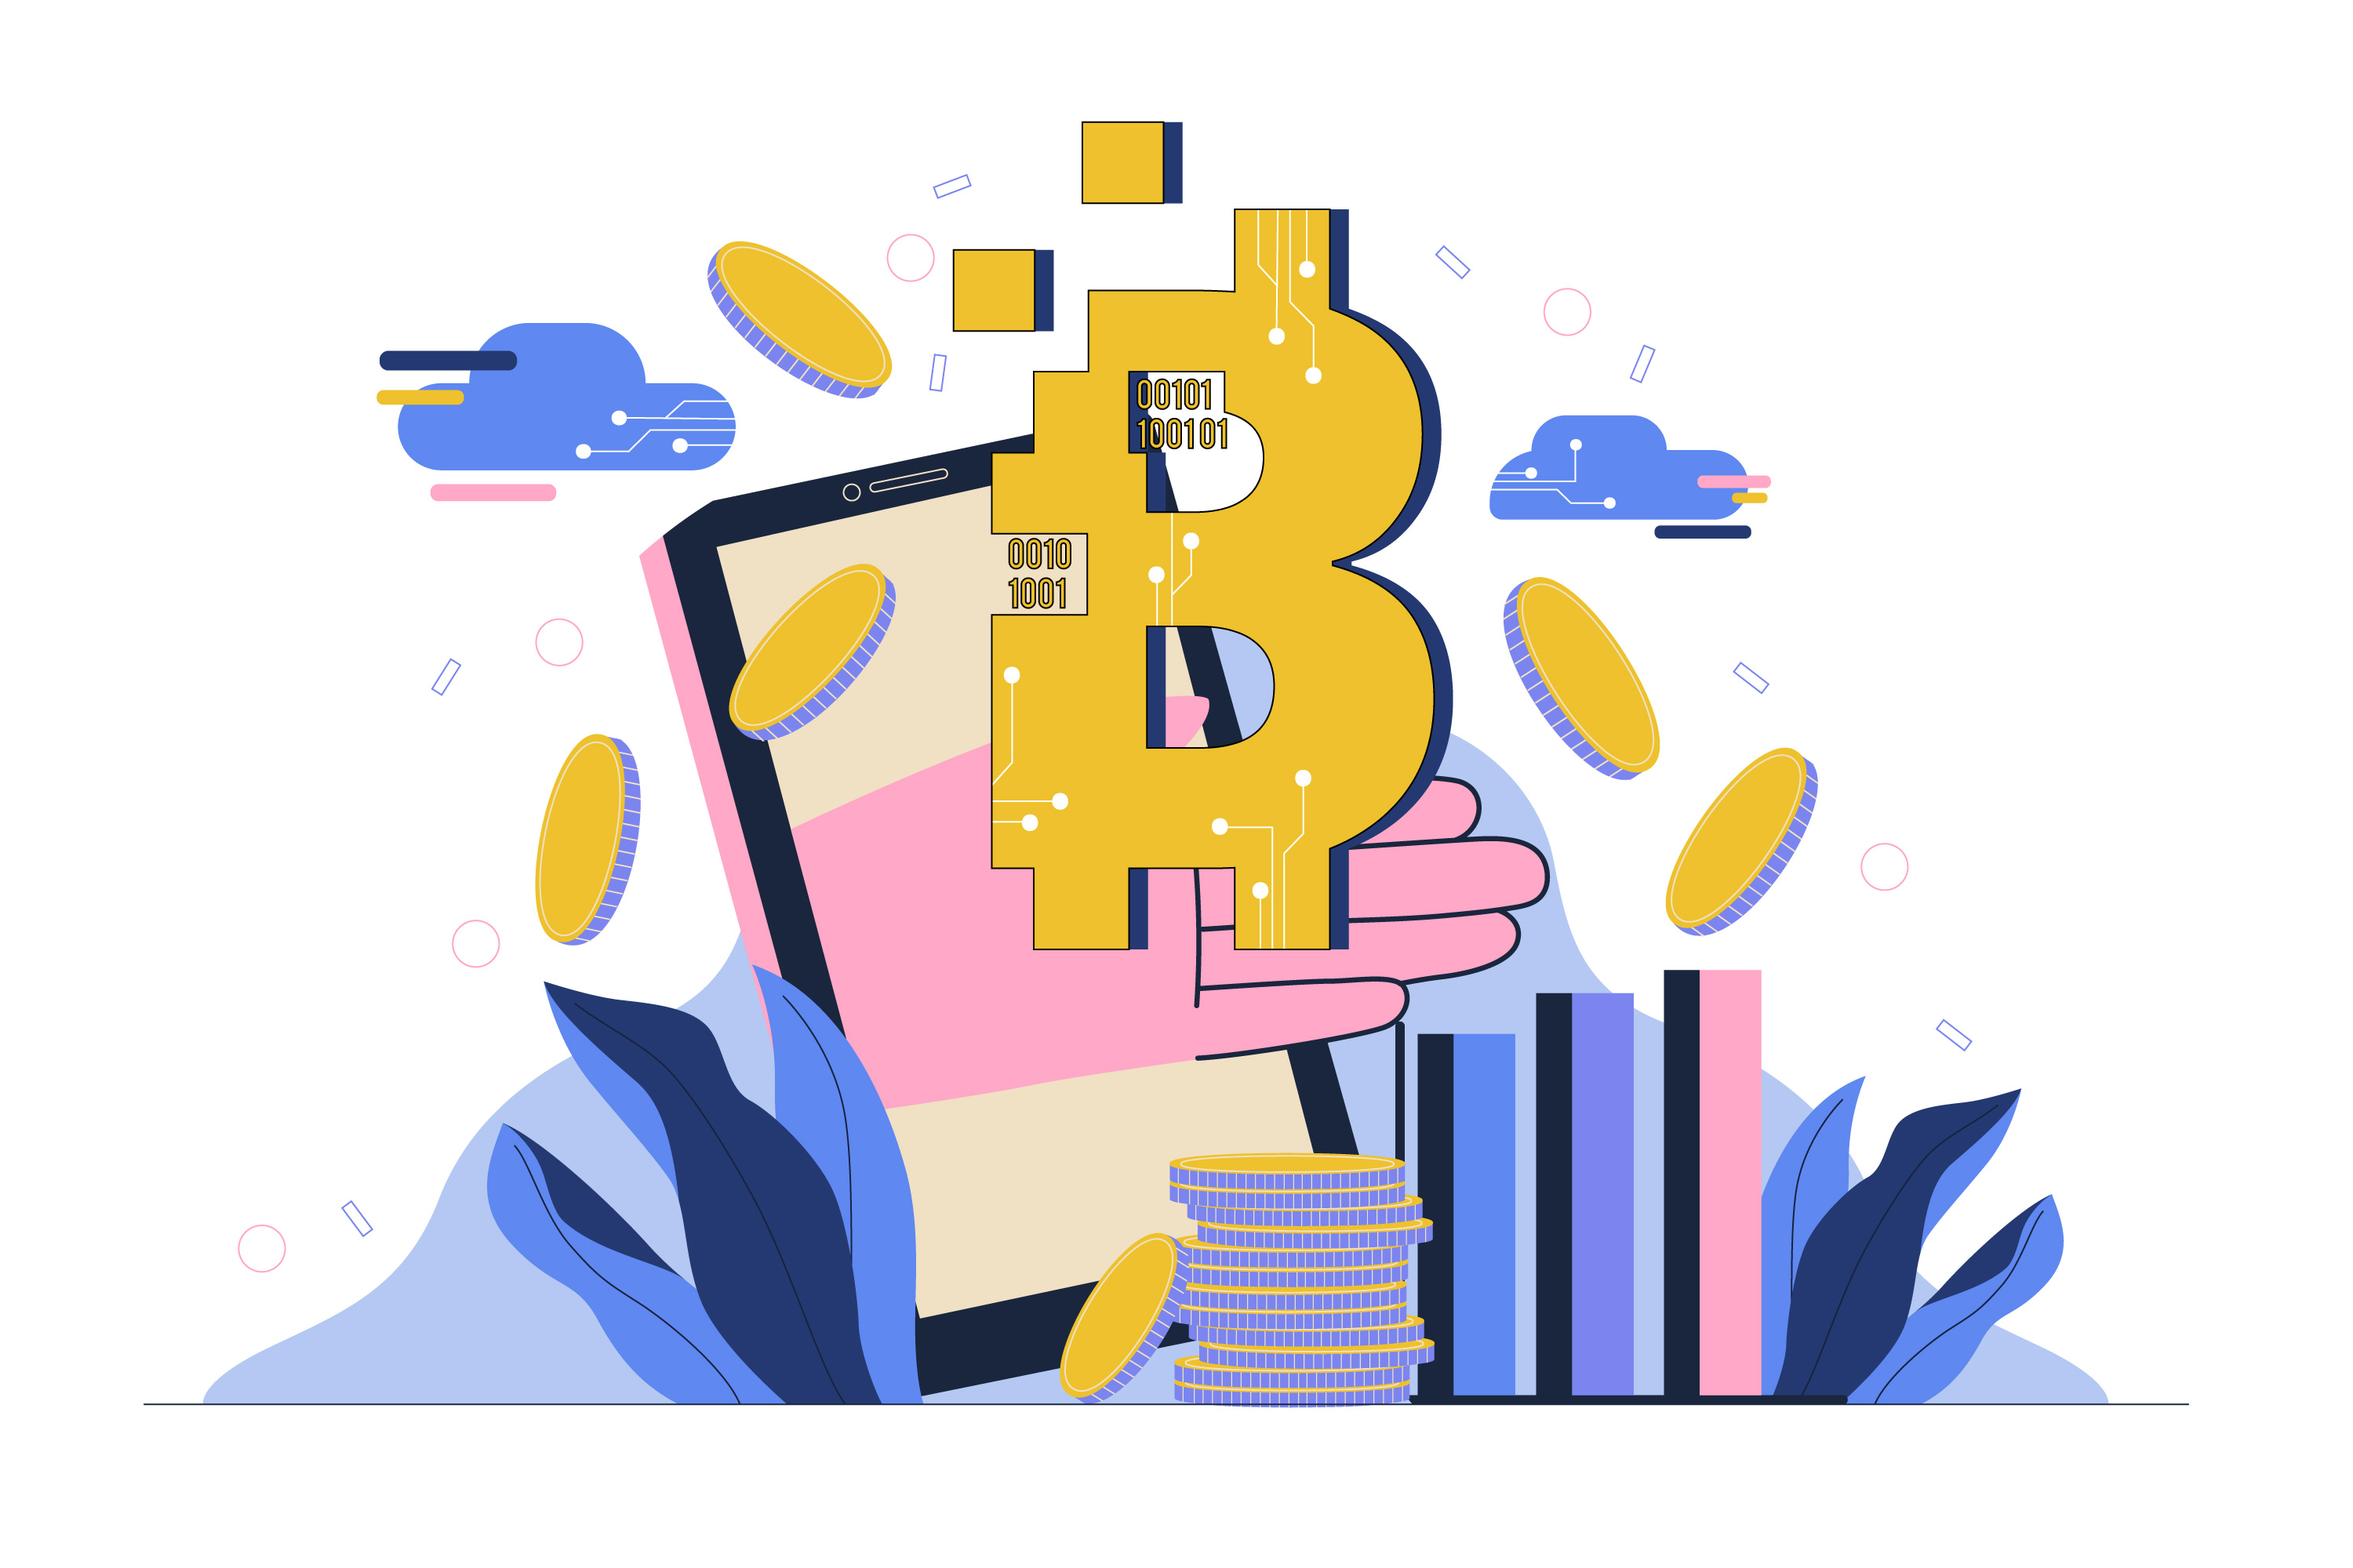
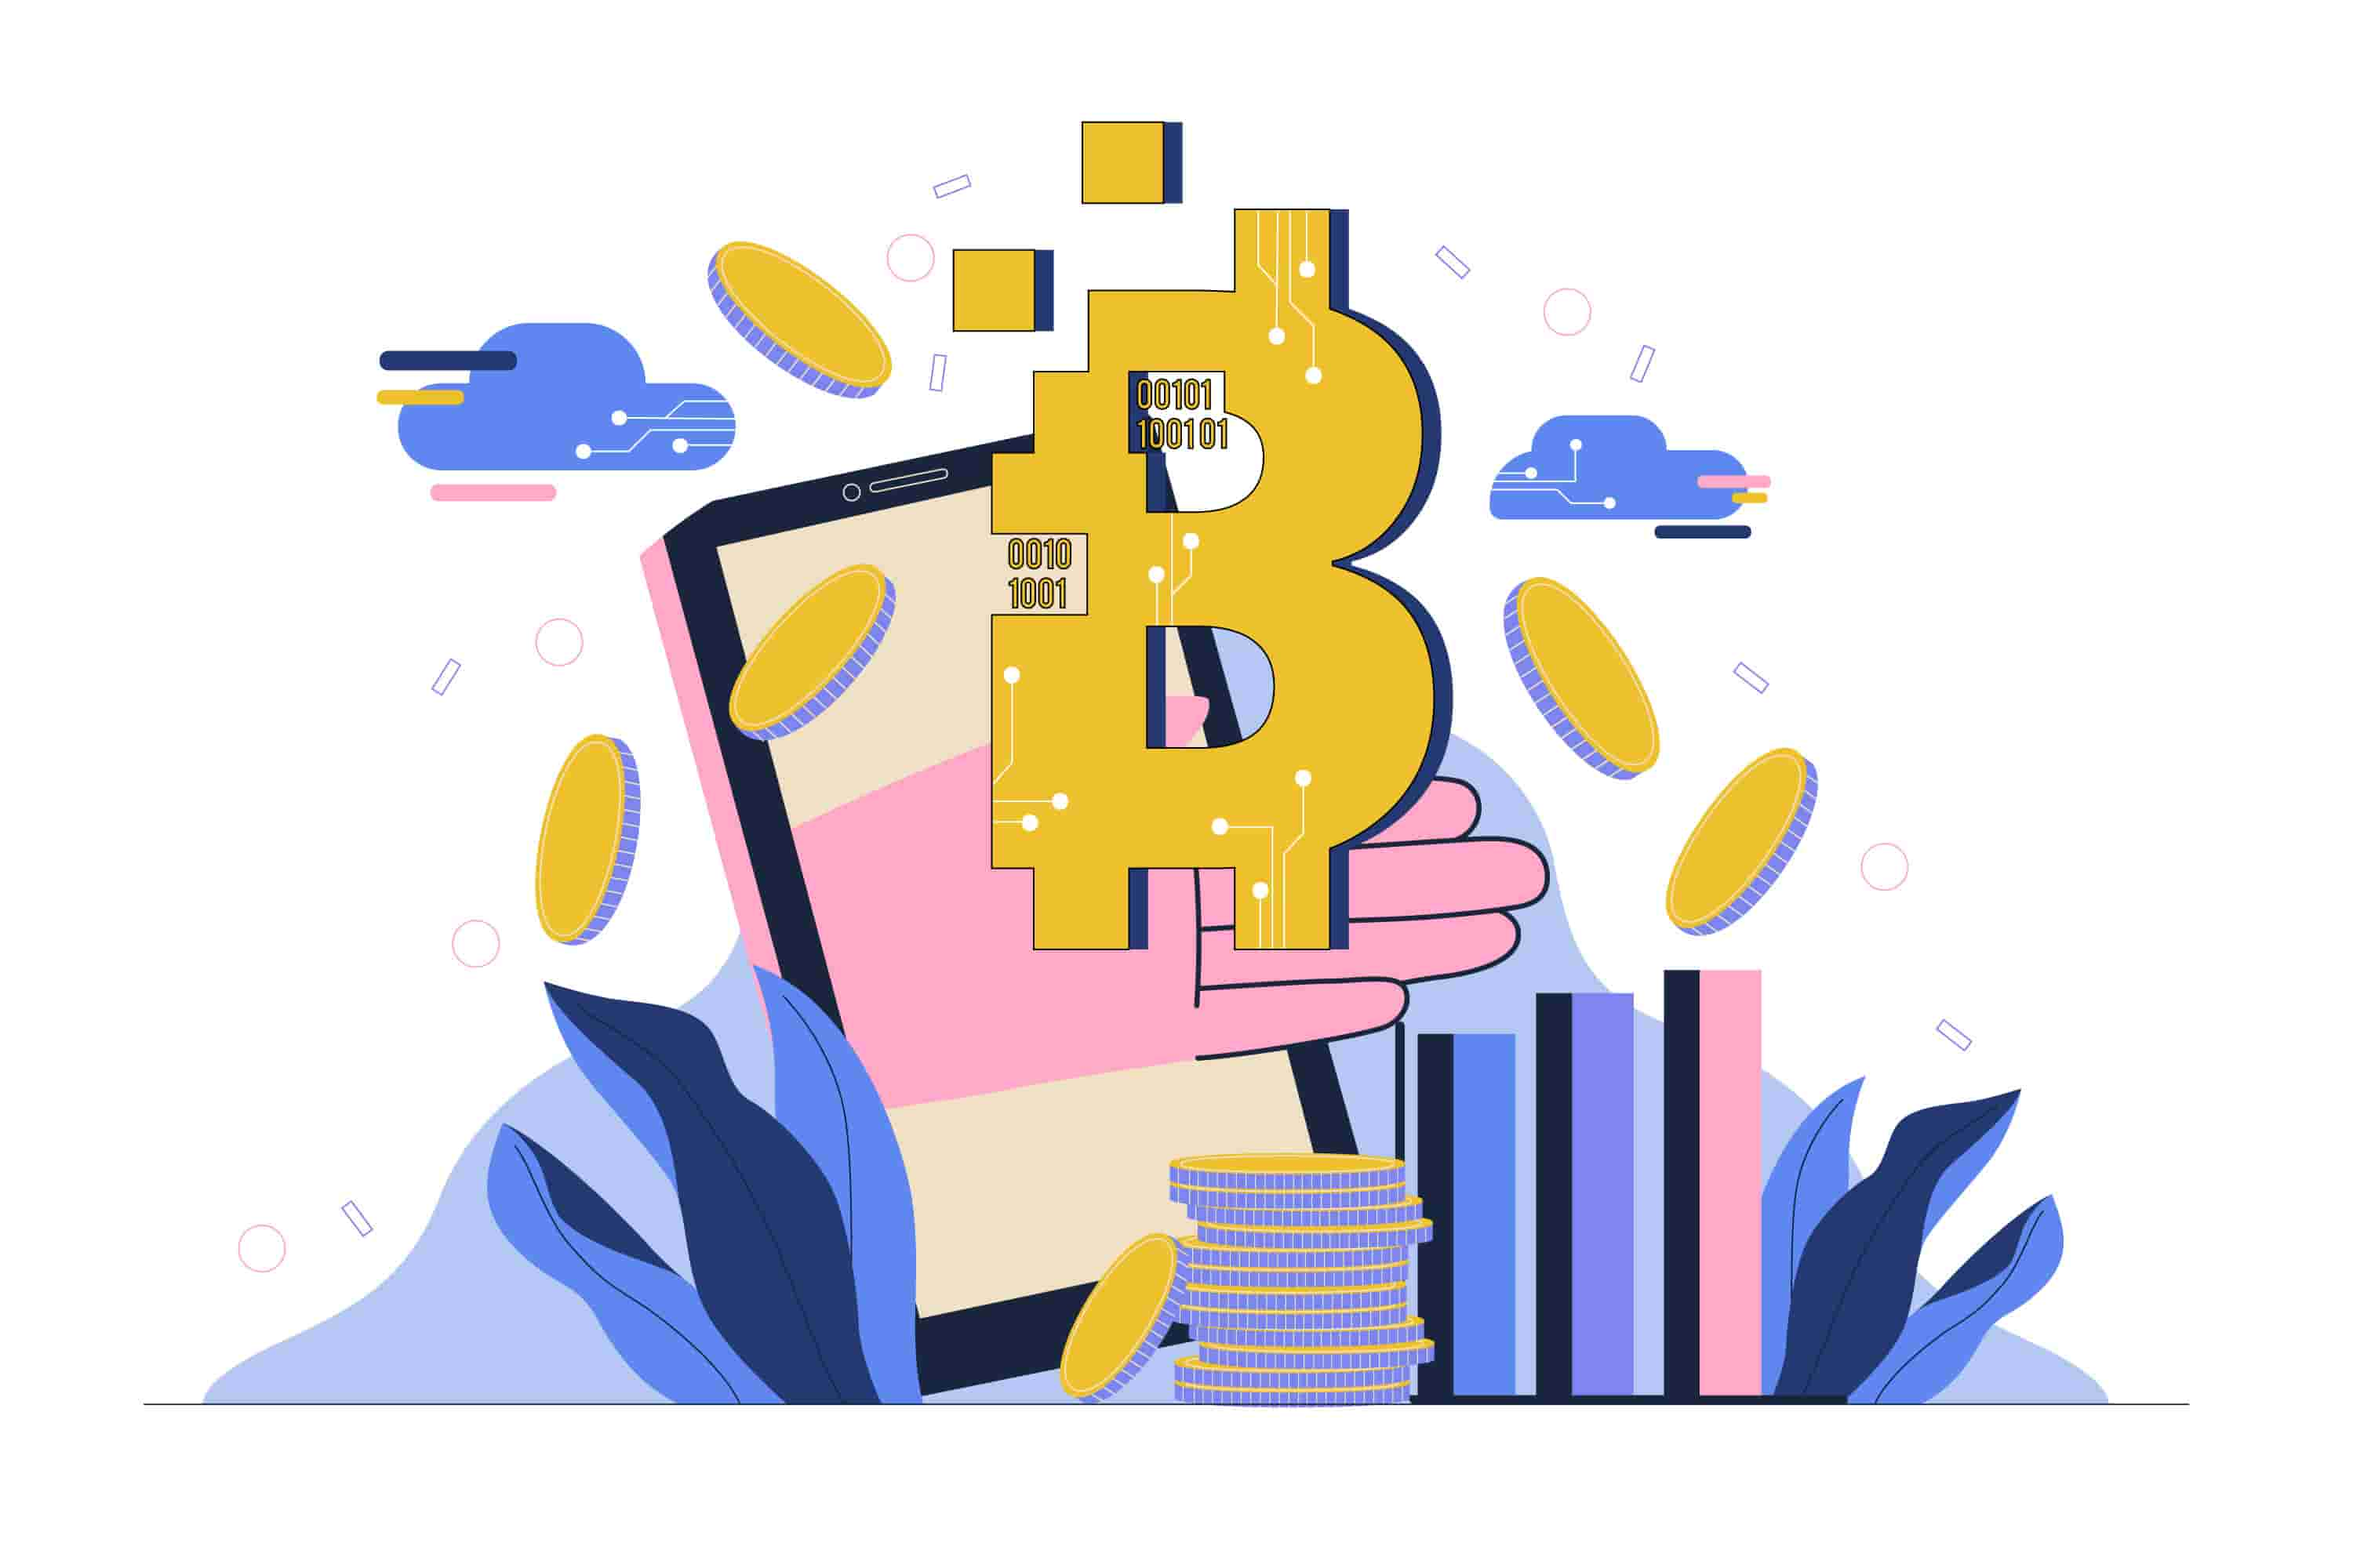
optimised image file size

diff --git a/src/components/SideBar.tsx b/src/components/SideBar.tsx
@@ -99,7 +99,7 @@ const SideBar = function () {
           rel="noopener noreferrer"
           className="flex items-center space-x-2"
         >
-          <img src="/images/coinGecko.png" className="w-6" alt="" />
+          <img src="/images/coingecko_logo.svg" className="w-6" alt="" />
           <p className="text-sm">CoinGecko API</p>
         </a>
       </div>
